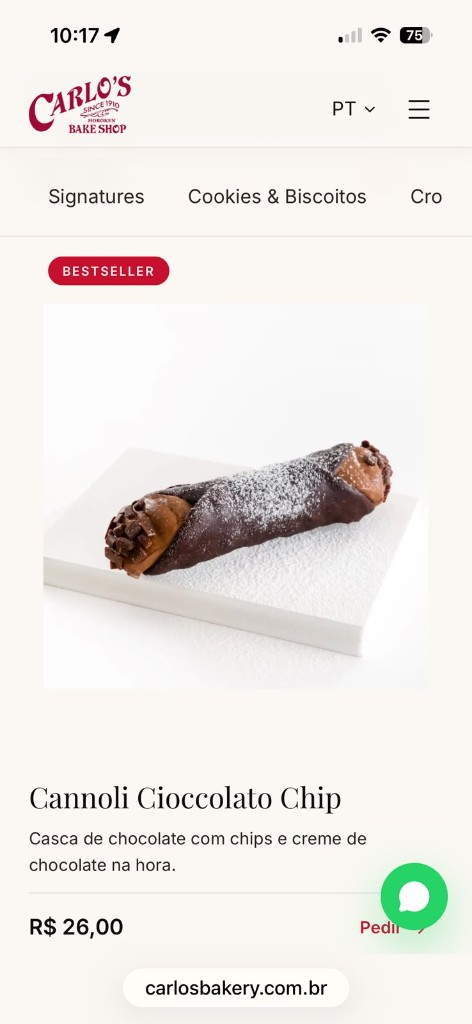
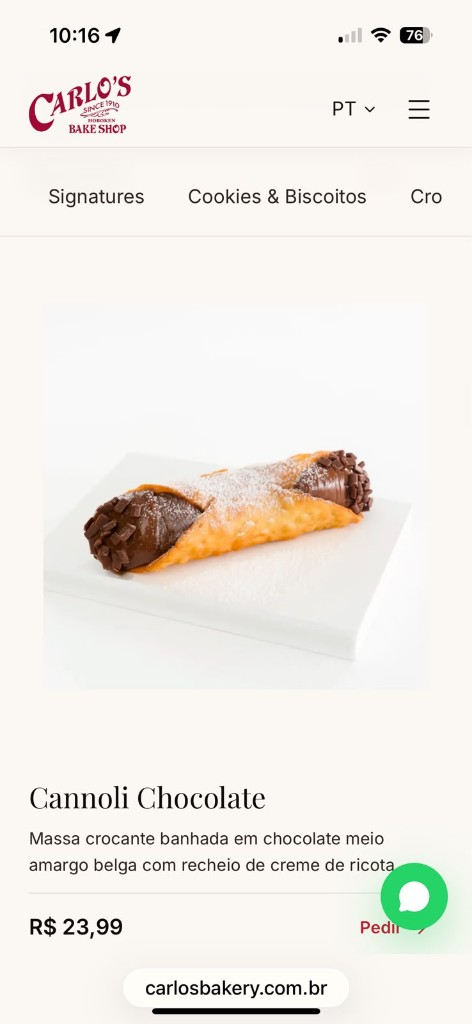
Fix cannoli menu photos and remove discontinued items.
Replace cioccolato-chip and fondente-crema images with studio shots; drop Lobster Limão, brownie pistache, bourbon store, and simplify ingredients copy.

diff --git a/src/data/stores.ts b/src/data/stores.ts
@@ -139,28 +139,6 @@ export const STORES: Store[] = [
     wazeUrl: "https://waze.com/ul?q=Av.+Roque+Petroni+Júnior,+1089,+São+Paulo",
   },
   {
-    id: "bourbon-shopping",
-    name: "Carlo's Bakery Bourbon Shopping",
-    shortName: "Bourbon Shopping",
-    address: "R. Palestra Itália, 500",
-    neighborhood: "Perdizes",
-    city: "São Paulo",
-    state: "SP",
-    zipCode: "05005-030",
-    phone: "(11) 97524-0146",
-    whatsapp: "5511975240146",
-    hours: {
-      weekdays: "10h às 22h",
-      saturday: "10h às 22h",
-      sunday: "14h às 20h",
-    },
-    coordinates: { lat: -23.5274, lng: -46.6776 },
-    features: ["Shopping", "Estacionamento"],
-    image: "https://images.unsplash.com/photo-1486427944299-d1955d23e34d?w=1200&q=80",
-    googleMapsUrl: "https://maps.google.com/?q=R.+Palestra+Itália,+500,+São+Paulo",
-    wazeUrl: "https://waze.com/ul?q=R.+Palestra+Itália,+500,+São+Paulo",
-  },
-  {
     id: "metro-tatuape",
     name: "Carlo's Bakery Shopping Metrô Tatuapé",
     shortName: "Metrô Tatuapé",

diff --git a/src/data/product-catalog.ts b/src/data/product-catalog.ts
@@ -324,22 +324,6 @@ export const PRODUCT_CATALOG: ProductCatalogEntry[] = [
     price: 34.99,
     pricePromo: 28.9,
   },
-  {
-    name: "Lobster Tail Limão Siciliano Tamanho Mini",
-    category: "Lobster Tail",
-    price: 25.99,
-    menuItemId: "cauda-lagosta-doce-leite",
-  },
-  {
-    name: "Lobster Tail Limão Siciliano Tamanho Clássico",
-    category: "Lobster Tail",
-    price: 27.99,
-  },
-  {
-    name: "Lobster Tail Limão Siciliano Tamanho Super",
-    category: "Lobster Tail",
-    price: 32.99,
-  },
   // Fatias
   {
     name: "Fatia Bolo Red Velvet",
@@ -440,12 +424,6 @@ export const PRODUCT_CATALOG: ProductCatalogEntry[] = [
     price: 21.99,
     pricePromo: 19.9,
     menuItemId: "brownie-chocolate",
-  },
-  {
-    name: "Brownie de Pistache",
-    category: "Doces especiais",
-    price: 23.99,
-    menuItemId: "brownie-pistache",
   },
   {
     name: "Donut Simpsons",

diff --git a/src/data/menu.ts b/src/data/menu.ts
@@ -300,13 +300,6 @@ export const MENU_ITEMS: MenuItem[] = applyCatalogPricing([
     badge: "novo",
   },
   {
-    id: "cauda-lagosta-doce-leite",
-    category: "cannoli",
-    price: 26.99,
-    priceFrom: true,
-    image: MENU_IMAGES.folhadoCaudaLagostaDoceLeite,
-  },
-  {
     id: "cauda-lagosta-cacau",
     category: "cannoli",
     price: 27.99,
@@ -488,13 +481,6 @@ export const MENU_ITEMS: MenuItem[] = applyCatalogPricing([
     price: 21.99,
     image: MENU_IMAGES.especialBrownieChocolate,
     badge: "bestseller",
-  },
-  {
-    id: "brownie-pistache",
-    category: "specials",
-    price: 22,
-    image: MENU_IMAGES.especialBrowniePistache,
-    badge: "novo",
   },
   {
     id: "tiramisu-potinho",
